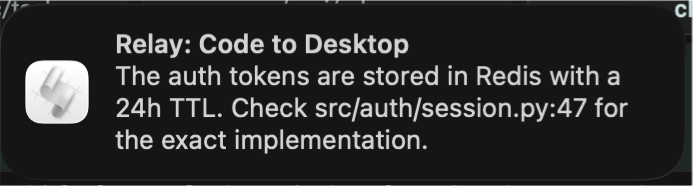
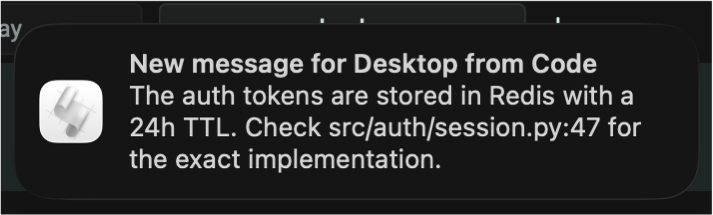
Add --client flag for notification filtering
- Notifications only fire on receiving side (not sender)
- Header format: "New message for {recipient} from {sender}"
- Updated configs and README with --client argument
- Updated screenshot

diff --git a/relay_server.py b/relay_server.py
@@ -21,6 +21,7 @@ Usage:
 
 """
 
+import argparse
 import platform
 import sqlite3
 import subprocess
@@ -47,6 +48,9 @@ IDLE_TIMEOUT = 3600        # Exit after 1 hour of inactivity
 
 # Valid sender values (for defensive validation)
 VALID_SENDERS = {"desktop", "code"}
+
+# Client identity (set via --client argument, used for notification filtering)
+_client_identity: Optional[str] = None
 
 # Track last activity for idle timeout
 _last_activity = time.time()
@@ -143,22 +147,28 @@ def _notification_loop() -> None:
         if _is_idle():
             sys.exit(0)
 
+        # Skip notifications if client identity not set
+        if _client_identity is None:
+            time.sleep(NOTIFY_POLL_INTERVAL)
+            continue
+
         try:
             with _get_connection() as conn:
-                # Find unread messages from either side
-                rows = conn.execute("""
+                # Find unread messages FROM the other client (incoming messages only)
+                other_client = "desktop" if _client_identity == "code" else "code"
+                read_col = "read_by_code_at" if _client_identity == "code" else "read_by_desktop_at"
+                rows = conn.execute(f"""
                     SELECT id, sender, message
                     FROM messages
-                    WHERE (sender = 'desktop' AND read_by_code_at IS NULL)
-                       OR (sender = 'code' AND read_by_desktop_at IS NULL)
-                """).fetchall()
+                    WHERE sender = ? AND {read_col} IS NULL
+                """, (other_client,)).fetchall()
 
             for row in rows:
                 msg_id = row["id"]
                 if msg_id not in notified:
                     sender = row["sender"].title()
-                    recipient = "Desktop" if row["sender"] == "code" else "Code"
-                    _send_notification(f"Relay: {sender} to {recipient}", f"Mesg: {row['message']}")
+                    recipient = _client_identity.title()
+                    _send_notification(f"New message for {recipient} from {sender}", row["message"])
                     notified.add(msg_id)
 
         except Exception:
@@ -330,6 +340,17 @@ def relay_clear() -> dict:
 # =============================================================================
 
 if __name__ == "__main__":
+    parser = argparse.ArgumentParser(description="MCP Relay Server")
+    parser.add_argument(
+        "--client",
+        choices=["desktop", "code"],
+        help="Client identity for notification filtering"
+    )
+    args = parser.parse_args()
+
+    # Set client identity for notification filtering
+    _client_identity = args.client
+
     # Start background notification thread
     _start_notification_thread()
     # Run with stdio transport (standard for Claude Desktop/Code integration)

diff --git a/README.md b/README.md
@@ -118,7 +118,7 @@ Add this to the `mcpServers` section (adjust paths for your system):
   "mcpServers": {
     "relay": {
       "command": "/path/to/mcp-relay/.venv/bin/python",
-      "args": ["/path/to/mcp-relay/relay_server.py"]
+      "args": ["/path/to/mcp-relay/relay_server.py", "--client", "desktop"]
     }
   }
 }
